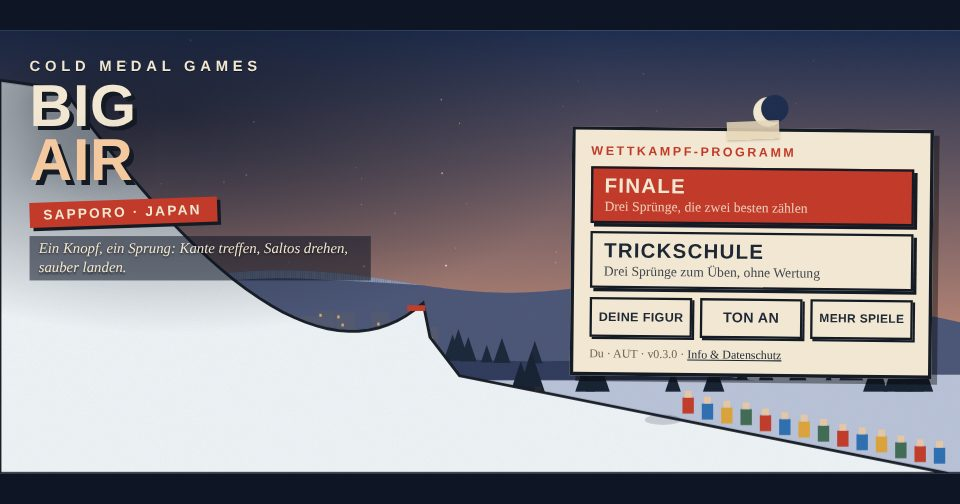
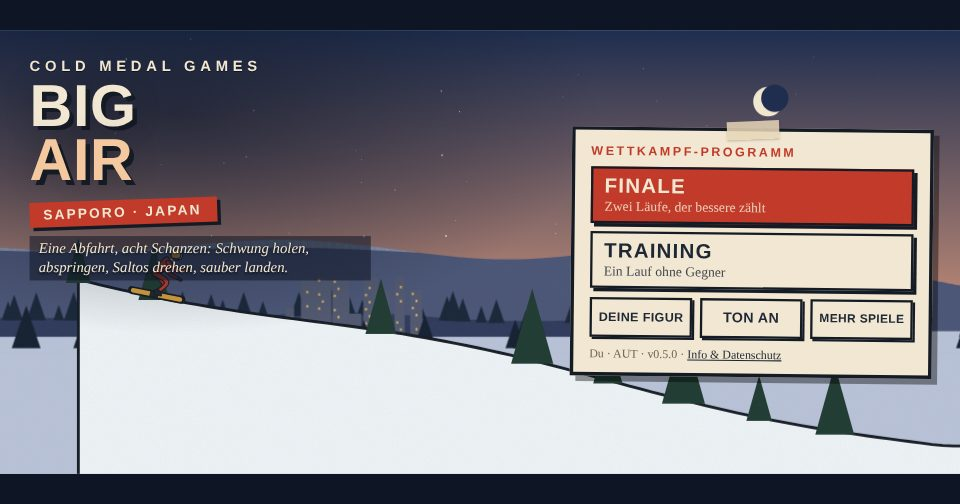
Big Air und Halfpipe 0.5.0
Claude-Session: https://claude.ai/code/session_014DHnXigyAZUFRqF2g2CL9Y

diff --git a/big-air/index.html b/big-air/index.html
@@ -2076,119 +2076,154 @@ tr.cut td { border-bottom: 2px dashed var(--red); }
   root.CMRahmen = { v: 1, W, H, spiel, rng, clamp };
 })(typeof window !== "undefined" ? window : globalThis);
 
-// Cold Medal · Big Air – Physik ohne Browser (Node und Seite). Seit 0.3: ein Knopf wie im Seitenscroller: tippen = Absprung, halten = Salto.
+// Cold Medal · Big Air – Physik ohne Browser (Node und Seite). Seit 0.5: eine durchgehende Abfahrt in Seitenansicht mit acht Schanzen.
+// Ein Knopf: am Boden halten = Hocke (schneller, lädt den Sprung), loslassen = Absprung; in der Luft halten = Salto; kurz vor dem Boden tippen = Landung.
 (function (root) {
   "use strict";
   const clamp = (v, a, b) => Math.max(a, Math.min(b, v));
   function rng(seed) { let a = seed >>> 0; return () => { a = (a + 0x6d2b79f5) | 0; let t = Math.imul(a ^ (a >>> 15), 1 | a); t = (t + Math.imul(t ^ (t >>> 7), 61 | t)) ^ t; return ((t ^ (t >>> 14)) >>> 0) / 4294967296; }; }
-  const ANLAUF = 2.4, LIPPE = 0.94, FENSTER = 0.07, DREH = 430, TOL = 50, LANDEN = 0.34, PERFEKT = 0.13;
+  const LANG = 720, G = 9.81, GLUFT = 10.5, DREH = 400, TOL = 55, LANDEN = 0.36, PERFEKT = 0.14, LADEN = 0.5;
 
-  function neu(o) { return { phase: "anfahrt", u: 0, q: null, t: 0, T: 0, h: 0, rot: 0, dreht: false, flips: 0, sturz: false, sauber: 0, tap: null, landung: null, wind: (o && o.wind) || 0 }; }
-  function absprung(s) { if (s.phase !== "anfahrt" || s.q != null) return null; s.q = s.u < LIPPE - FENSTER ? 0.05 : clamp(1 - Math.abs(s.u - LIPPE) / FENSTER, 0.05, 1); return s.q; }
-  // haelt: Knopf gedrückt. Liefert "ab" beim Absprung, "landung" oder "sturz" am Ende.
-  // Landen wie in den Trick-Seitenscrollern: kurz vor dem Aufsetzen noch einmal tippen. Je näher am Boden, desto besser.
-  function landen(s) { if (s.phase !== "flug" || s.tap != null || s.t < s.T - LANDEN) return false; s.tap = s.T - s.t; return true; }
-  function schritt(s, dt, haelt, land) {
-    if (s.phase === "anfahrt") { s.u += dt / ANLAUF; if (s.u >= 1) { if (s.q == null) s.q = 0.15; s.T = 1.35 + 1.25 * s.q + s.wind * 0.03; s.h = 2 + 5 * s.q; s.phase = "flug"; return "ab"; } return null; }
-    if (s.phase !== "flug") return null;
-    if (land) landen(s); haelt = haelt && s.tap == null; s.t += dt; s.dreht = !!haelt; if (haelt) s.rot += DREH * dt;
-    if (s.t < s.T) return null;
-    const voll = Math.round(s.rot / 360) * 360, fehler = Math.abs(s.rot - voll);
-    s.sturz = fehler > TOL; s.flips = s.sturz ? Math.floor(s.rot / 360) : voll / 360; s.sauber = s.sturz ? 0 : 1 - (fehler / TOL) * 0.7; s.landung = s.sturz ? "sturz" : s.tap == null ? "wackler" : s.tap <= PERFEKT ? "perfekt" : "gut"; s.phase = "aus";
-    return s.sturz ? "sturz" : "landung";
+  // Strecke: Höhe je Meter. Grundgefälle, kleine Wellen, acht Schanzen (die letzte ist die große).
+  function strecke(seed) {
+    const r = rng(seed), H = [0], schanzen = []; let x0 = 80;
+    for (let i = 0; i < 8; i++) { const gross = i === 7, mittel = i % 3 === 2; schanzen.push({ x: x0, rampe: gross ? 14 : mittel ? 11 : 8, hoch: gross ? 3.6 : mittel ? 2.4 : 1.4, gross }); x0 += 66 + r() * 18 + (mittel ? 10 : 0); }
+    const p1 = r() * 6;
+    for (let x = 1; x <= LANG + 60; x++) {
+      let d = -0.2 + 0.07 * Math.sin(x / 9 + p1);
+      for (const k of schanzen) { const u = x - k.x; if (u >= 0 && u < k.rampe) d = -0.1 + (0.34 + k.hoch * 0.07) * (u / k.rampe); else if (u === k.rampe) d = -k.hoch * 0.9; else if (u > k.rampe && u < k.rampe + 10 + k.hoch * 6) d = -0.5; else if (u >= k.rampe + 10 + k.hoch * 6 && u < k.rampe + 20 + k.hoch * 6) d = -0.5 + 0.36 * ((u - k.rampe - 10 - k.hoch * 6) / 10); }
+      if (x > LANG) d = -0.02;
+      H.push(H[x - 1] + d);
+    }
+    return { H, schanzen, lang: LANG };
   }
-  const LQ = { perfekt: 1, gut: 0.88, wackler: 0.62, sturz: 1 };
-  const wertung = (s) => clamp(s.sturz ? 12 + s.flips * 6 : (20 + 14 * s.q + s.flips * 18 + 12 * s.sauber) * LQ[s.landung || "wackler"], 0, 100);
-  function ki(st, r) { const flips = Math.min(3, Math.max(1, Math.round(0.8 + 2.2 * st + (r() - 0.5)))), sturz = r() < 0.26 - 0.14 * st; return { flips, sturz, basis: clamp(sturz ? 12 + flips * 6 : 20 + 14 * (0.5 + 0.5 * st) + flips * 18 + 12 * (0.55 + 0.4 * r()), 0, 100) }; }
-  // Mitspieler: trifft die Kante und dreht so viele ganze Saltos, wie in die Flugzeit passen
-  function bot(s) { if (s.phase === "anfahrt") return { ab: s.q == null && s.u >= LIPPE, haelt: false }; if (s.phase !== "flug") return { haelt: false }; const ziel = Math.floor(((s.T - 0.2) * DREH) / 360) * 360; return { haelt: s.rot < ziel - 4, land: s.T - s.t < 0.08 }; }
-  const api = { ANLAUF, LIPPE, FENSTER, DREH, TOL, LANDEN, PERFEKT, clamp, rng, neu, absprung, landen, schritt, wertung, ki, bot };
+  const hoehe = (S, x) => { const i = clamp(Math.floor(x), 0, S.H.length - 2), u = clamp(x - i, 0, 1); return S.H[i] + (S.H[i + 1] - S.H[i]) * u; };
+  const winkel = (S, x) => { const i = clamp(Math.floor(x), 0, S.H.length - 2); return Math.atan(S.H[i + 1] - S.H[i]); };
+
+  function neu() { return { x: 2, y: 0, v: 7, vx: 0, vy: 0, luft: false, t: 0, hocke: false, lade: 0, rot: 0, dreht: false, tap: null, tLuft: 0, punkte: 0, kette: 0, besteKette: 0, spruenge: [], stuerze: 0, liegt: 0, fertig: false, zeit: null, a0: 0 }; }
+  // Zeit bis zum Aufsetzen (Vorausrechnung ohne Drehung)
+  function rest(S, s) { if (!s.luft) return 0; let x = s.x, y = s.y, vy = s.vy; for (let t = 0; t < 6; t += 1 / 60) { vy -= GLUFT / 60; x += s.vx / 60; y += vy / 60; if (y <= hoehe(S, x)) return t; } return 6; }
+  function landen(S, s) { if (!s.luft || s.tap != null) return false; const r = rest(S, s); if (r > LANDEN) return false; s.tap = r; return true; }
+  function ab(s, a, sprung) { s.luft = true; s.vx = s.v * Math.cos(a); s.vy = s.v * Math.sin(a) + sprung; s.rot = 0; s.tap = null; s.tLuft = 0; s.a0 = a; s.lade = 0; }
+  // ein Zeitschritt. ein: { haelt, land }. Ereignis: "ab" | { art: "landung", ... } | "ziel" | null
+  function schritt(S, s, dt, ein) {
+    if (s.fertig) return null; s.t += dt;
+    if (s.liegt > 0) { s.liegt -= dt; return null; }
+    if (!s.luft) {
+      const a = winkel(S, s.x), war = s.hocke; s.hocke = !!ein.haelt; if (s.hocke) s.lade = Math.min(LADEN, s.lade + dt);
+      s.v = Math.max(2.5, s.v + (-G * Math.sin(a) * 0.62 - (s.hocke ? 0.0052 : 0.0105) * s.v * s.v - 0.25) * dt);
+      const xn = s.x + s.v * Math.cos(a) * dt, a2 = winkel(S, xn + 0.4);
+      if (war && !s.hocke) { const k = s.lade / LADEN; s.x = xn; s.y = hoehe(S, xn) + 0.05; ab(s, a, 1.6 + 2.8 * k); return "ab"; }      // Absprung beim Loslassen
+      if (a2 < a - 0.3 && s.v > 5) { s.x = xn; s.y = hoehe(S, s.x - s.v * Math.cos(a) * dt) + Math.sin(a) * s.v * dt; ab(s, a, 0); return "ab"; }   // Kante: der Boden fällt weg
+      s.x = xn; s.y = hoehe(S, s.x);
+      if (s.x >= S.lang) { s.fertig = true; s.zeit = s.t; return "ziel"; }
+      return null;
+    }
+    if (ein.land) landen(S, s);
+    s.tLuft += dt; s.dreht = !!ein.haelt && s.tap == null; if (s.dreht) s.rot += DREH * dt;
+    s.vy -= GLUFT * dt; s.x += s.vx * dt; s.y += s.vy * dt;
+    const h = hoehe(S, s.x); if (s.y > h) return null;
+    // Aufsetzen
+    const a = winkel(S, s.x), voll = Math.round(s.rot / 360) * 360, fehler = Math.abs(s.rot - voll), sturz = fehler > TOL, flips = sturz ? 0 : voll / 360;
+    const landung = sturz ? "sturz" : s.tap == null ? "wackler" : s.tap <= PERFEKT ? "perfekt" : "gut", klein = s.tLuft < 0.45 && !flips;
+    s.luft = false; s.y = h; s.hocke = false; s.dreht = false;
+    s.v = Math.max(2.5, s.vx * Math.cos(a) + s.vy * Math.sin(a));
+    let pkt = 0;
+    if (sturz) { s.stuerze++; s.kette = 0; s.v = 2.5; s.liegt = 1.1; }
+    else if (!klein) { if (landung === "perfekt") { s.kette++; s.v += 1.6; } else if (landung === "wackler") { s.kette = 0; s.v *= 0.82; }
+      pkt = Math.round((s.tLuft * 12 + flips * 60) * { perfekt: 1, gut: 0.8, wackler: 0.5 }[landung] * (1 + 0.25 * Math.max(0, s.kette - 1))); s.punkte += pkt; s.besteKette = Math.max(s.besteKette, s.kette); }
+    const ev = { art: "landung", landung, flips, luft: s.tLuft, punkte: pkt, kette: s.kette, klein }; if (!klein || sturz) s.spruenge.push(ev);
+    if (s.x >= S.lang) { s.fertig = true; s.zeit = s.t; }
+    return ev;
+  }
+  // Mitspieler: Hocke, an der Schanzenkante abspringen, so viele Saltos wie hineinpassen, sauber landen
+  function bot(S, s, st) {
+    st = st == null ? 1 : st;
+    if (!s.luft) { const k = S.schanzen.find((q) => s.x < q.x + q.rampe && s.x > q.x - 30); return { haelt: !(k && s.x > k.x + k.rampe - 1.2 - s.v * 0.02) }; }
+    const r = rest(S, s); if (s.botZiel == null || s.tLuft < 0.05) s.botZiel = Math.floor(((s.tLuft + r - 0.3) * DREH * (0.55 + 0.45 * st)) / 360) * 360;
+    return { haelt: s.rot < s.botZiel - 4, land: r < 0.09 };
+  }
+  function lauf(S, st) { const s = neu(); for (let i = 0; i < 60 * 240 && !s.fertig; i++) schritt(S, s, 1 / 60, bot(S, s, st)); return s; }
+  const ki = (st, r) => Math.round(700 + 1700 * st + (r() - 0.5) * 500 - (r() < 0.25 - 0.15 * st ? 450 : 0));
+  const api = { LANG, DREH, TOL, LANDEN, PERFEKT, LADEN, clamp, rng, strecke, hoehe, winkel, neu, rest, landen, schritt, bot, lauf, ki };
   if (typeof module !== "undefined" && module.exports) module.exports = api; else root.BAPhys = api;
 })(typeof window !== "undefined" ? window : globalThis);
 
 // Cold Medal · Big Air – Spiel (Rahmen: oberflaeche/rahmen.js, Physik: physics.js). Konzept: docs/KONZEPT.md.
-// Seit 0.3: ein Knopf wie in den einfachen Seitenscrollern. Tippen an der Kante = Absprung, halten = Salto, loslassen vor der Landung.
+// Seit 0.5: eine durchgehende Abfahrt in Seitenansicht (Vorbilder: Alto, OlliOlli). Ein Knopf für Hocke, Absprung, Salto und Landung.
 (function () {
   "use strict";
-  const VERSION = "0.4.0";
+  const VERSION = "0.5.0";
   const P = window.BAPhys;
   const KIT = { head: "helmet", feet: "skiBoots", torso: "plain", glove: true };
-  const POSE = { hocke: { lean: 40, crouch: 0.8, sL: [60, 90], fL: [50, 86], aF: [30, 40], aB: [14, 30], hd: -20 }, salto: { lean: 50, crouch: 1, sL: [90, 120], fL: [84, 116], aF: [80, 20], aB: [70, 20], hd: -20 }, offen: { lean: 10, crouch: 0.2, sL: [24, 30], fL: [10, 30], aF: [-70, 20], aB: [-110, 20], hd: 0 }, sturz: { lean: 80, crouch: 0.3, sL: [20, 40], fL: [-30, 50], aF: [-120, 30], aB: [100, 30], hd: 20 } };
-  const A = [56, 52], B = [262, 338], L = [372, 240], RUNDEN = 3;
+  const POSE = { steh: { lean: 16, crouch: 0.3, sL: [30, 44], fL: [-4, 36], aF: [40, 30], aB: [-30, 40], hd: -6 }, hocke: { lean: 40, crouch: 0.9, sL: [64, 96], fL: [50, 90], aF: [60, 40], aB: [20, 50], hd: -18 }, salto: { lean: 52, crouch: 1, sL: [90, 120], fL: [84, 116], aF: [84, 20], aB: [70, 20], hd: -20 }, luft: { lean: 8, crouch: 0.2, sL: [26, 30], fL: [8, 30], aF: [-70, 20], aB: [-110, 20], hd: 0 }, sturz: { lean: 84, crouch: 0.2, sL: [20, 40], fL: [-30, 50], aF: [-120, 30], aB: [100, 30], hd: 20 } };
+  const PX = 9.5, MX = 240, MY = 220, LAEUFE = 2;
   let R, kul;
-  const hang = (x) => 304 + (x - 404) * 0.2;
-  const bez = (u) => { const q = 1 - u; return [q * q * A[0] + 2 * q * u * B[0] + u * u * L[0], q * q * A[1] + 2 * q * u * B[1] + u * u * L[1], Math.atan2(2 * q * (B[1] - A[1]) + 2 * u * (L[1] - B[1]), 2 * q * (B[0] - A[0]) + 2 * u * (L[0] - B[0]))]; };
 
-  function schanze(c, t) {
-    kul = kul || R.kulisse("sapporo", 300, "abend"); kul.zeichne(c, 0, t);
-    c.fillStyle = "#EEF4F8"; c.strokeStyle = "#141B25"; c.lineWidth = 2.5; c.beginPath(); c.moveTo(0, R.H); c.lineTo(0, A[1] - 8); c.lineTo(A[0], A[1]);
-    for (let i = 1; i <= 30; i++) { const p = bez(i / 30); c.lineTo(p[0], p[1]); } c.lineTo(L[0] + 6, L[1] + 30); c.lineTo(404, hang(404)); c.lineTo(R.W, hang(R.W)); c.lineTo(R.W, R.H); c.closePath(); c.fill(); c.stroke();
-    c.fillStyle = "#C23B2A"; c.fillRect(L[0] - 14, L[1] + 2, 16, 5);      // rote Kante
-    // Zuschauer und Punktrichterturm am Auslauf
-    for (let i = 0; i < 14; i++) { const x = 600 + i * 17, y = hang(x) - 2, bob = Math.max(0, Math.sin(t * 2.4 + i * 1.9)) * 2; c.fillStyle = ["#C23B2A", "#2C6FB3", "#DDA43B", "#3F6B55"][i % 4]; c.fillRect(x, y - 16 - bob, 10, 14); c.fillStyle = "#E8C9A8"; c.fillRect(x + 2, y - 22 - bob, 6, 6); }
-    c.fillStyle = "#22272E"; c.fillRect(470, hang(470) - 4, 6, 4); c.fillRect(760, 150, 60, 44); c.fillStyle = "#F1E7D2"; c.fillRect(766, 156, 48, 16); R.text(c, "JURY", 790, 164, 10, "#22272E");
-  }
-  function fahrer(c, s, look) {
-    let x, y, w, pose;
-    if (s.phase === "anfahrt") { const p = bez(Math.min(1, s.u)); x = p[0]; y = p[1]; w = p[2]; pose = POSE.hocke; }
-    else { const k = s.phase === "aus" ? 1 : s.t / s.T, zx = 540 + 200 * s.q; x = L[0] + (zx - L[0]) * k; y = L[1] + (hang(zx) - L[1]) * k - Math.sin(k * Math.PI) * s.h * 17;
-      w = s.phase === "aus" ? (s.sturz ? 1.3 : 0.2) : -0.5 + 0.7 * k - (s.rot * Math.PI) / 180; pose = s.phase === "aus" ? (s.sturz ? POSE.sturz : POSE.hocke) : s.dreht ? POSE.salto : POSE.offen; }
-    if (s.phase !== "anfahrt") R.schatten(c, x, hang(Math.max(404, x)) + 2, 16);
-    c.save(); c.translate(x, y - 2); c.rotate(w); c.strokeStyle = "#141B25"; c.lineWidth = 7; c.lineCap = "round"; c.beginPath(); c.moveTo(-24, 0); c.lineTo(24, 0); c.stroke(); c.strokeStyle = "#DDA43B"; c.lineWidth = 4; c.beginPath(); c.moveTo(-23, 0); c.lineTo(23, 0); c.stroke();
-    R.figur(c, { x: 0, y: -2, s: 0.74, pose, look, kit: KIT }); c.restore();
+  function welt(c, t, S, s, cam) {
+    kul = kul || R.kulisse("sapporo", 262, "abend"); kul.zeichne(c, cam.x * 1.5, t);
+    const X = (x) => (x - cam.x) * PX + MX, Y = (y) => MY - (y - cam.y) * PX, x0 = Math.max(0, Math.floor(cam.x - 30)), x1 = Math.min(S.H.length - 1, Math.ceil(cam.x + 70));
+    c.fillStyle = "#EEF4F8"; c.strokeStyle = "#141B25"; c.lineWidth = 2.5; c.beginPath(); c.moveTo(X(x0), R.H + 4); for (let x = x0; x <= x1; x++) c.lineTo(X(x), Y(S.H[x])); c.lineTo(X(x1), R.H + 4); c.closePath(); c.fill(); c.stroke();
+    for (let x = Math.ceil(x0 / 7) * 7; x < x1; x += 7) { const h = Math.sin(x * 12.9898) * 43758.5453, z = h - Math.floor(h); if (z > 0.55 || S.schanzen.some((k) => x > k.x - 4 && x < k.x + k.rampe + 30)) continue; const bx = X(x), by = Y(S.H[x]) + 3, g = 26 + z * 40; c.fillStyle = "#1F3B33"; c.beginPath(); c.moveTo(bx, by - g * 1.5); c.lineTo(bx + g * 0.42, by); c.lineTo(bx - g * 0.42, by); c.closePath(); c.fill(); }
+    for (const k of S.schanzen) { const lx = k.x + k.rampe; if (lx < x0 || k.x > x1) continue; c.fillStyle = "#C23B2A"; c.fillRect(X(lx) - 14, Y(S.H[Math.round(lx)]) + 3, 15, 5); if (k.gross) R.tafel(c, X(k.x) - 40, Y(S.H[Math.round(k.x)]) - 76, 80, 22, [["BIG AIR", 11, "#C23B2A"]]); }
+    if (S.lang < x1) { const zx = X(S.lang), zy = Y(S.H[S.lang]); c.fillStyle = "#141B25"; c.fillRect(zx - 2, zy - 80, 5, 80); c.fillStyle = "#C23B2A"; c.fillRect(zx, zy - 80, 54, 20); R.text(c, "ZIEL", zx + 27, zy - 70, 11, "#F1E7D2"); }
+    // Fahrer mit Brett
+    const sx = X(s.x), sy = Y(s.y), vel = Math.atan2(s.vy, s.vx), w = s.liegt > 0 ? 1.4 : s.luft ? -(s.a0 + (vel - s.a0) * Math.min(1, s.tLuft * 1.4)) - (s.rot * Math.PI) / 180 : -P.winkel(S, s.x);
+    const pose = s.liegt > 0 ? POSE.sturz : s.luft ? (s.dreht ? POSE.salto : POSE.luft) : s.hocke ? POSE.hocke : POSE.steh;
+    if (s.luft) R.schatten(c, sx, Y(P.hoehe(S, s.x)) + 2, 14);
+    c.save(); c.translate(sx, sy - 2); c.rotate(w); c.strokeStyle = "#141B25"; c.lineWidth = 7; c.lineCap = "round"; c.beginPath(); c.moveTo(-22, 0); c.lineTo(22, 0); c.stroke(); c.strokeStyle = "#DDA43B"; c.lineWidth = 4; c.beginPath(); c.moveTo(-21, 0); c.lineTo(21, 0); c.stroke();
+    R.figur(c, { x: 0, y: -2, s: 0.7, pose, look: R.myLook(), kit: KIT }); c.restore();
+    if (!s.luft && s.v > 9 && s.liegt <= 0) { c.fillStyle = "rgba(255,255,255,0.8)"; for (let i = 0; i < 4; i++) c.fillRect(sx - 20 - i * 9 - (t * 60 % 9), sy - 4 - i * 3, 5, 3); }
   }
 
   function wettkampf(training) {
-    const seed = (Date.now() ^ (Math.random() * 1e9)) >>> 0, rnd = P.rng(seed), feld = training ? [] : R.feld(11, seed, 0.6), wind = Math.round((rnd() * 4 - 1.5) * 10) / 10, meine = [];
-    feld.forEach((f) => { f.spr = [0, 1, 2].map(() => { const k = P.ki(f.st, rnd); return { flips: k.flips, sturz: k.sturz, wert: R.richter(k.basis, rnd).wert }; }); });
-    const zwei = (a) => a.map((x) => x.wert).sort((x, y) => y - x).slice(0, 2).reduce((x, y) => x + y, 0);
-    function sprung() {
-      const s = P.neu({ wind }); let wert = null, tEnd = 0, haelt = false, botAn = null;
-      const kR = R.knopf({ seite: "links", text: "Absprung", symbol: "hocke", onDown: () => { if (s.phase === "flug" && P.landen(s)) { R.ton.tick(); return; } haelt = true; if (s.phase === "anfahrt") { const q = P.absprung(s); if (q != null) { R.ton.wusch(); R.sag(q > 0.75 ? "Voll getroffen!" : q > 0.3 ? "Guter Absprung" : "Zu früh", 1, q <= 0.3); } } }, onUp: () => { haelt = false; } });
+    const seed = (Date.now() ^ (Math.random() * 1e9)) >>> 0, rnd = P.rng(seed), feld = training ? [] : R.feld(11, seed, 0.6), meine = [];
+    feld.forEach((f) => { f.l = [P.ki(f.st, rnd), P.ki(f.st, rnd)]; });
+    function lauf() {
+      const S = P.strecke(seed + meine.length * 17), s = P.neu(), cam = { x: 0, y: 0 }; let haelt = false, tap = false, botE = null, tEnd = 0;
+      const kL = R.knopf({ seite: "rechts", text: "Hocke", symbol: "hocke", onDown: () => { if (s.luft && P.landen(S, s)) { R.ton.tick(); return; } haelt = true; }, onUp: () => { haelt = false; } });
       R.szene({
-        taste(k, an) { if (k === "rechts" || k === "links") { if (an && s.phase === "flug" && P.landen(s)) return; haelt = an; if (an && s.phase === "anfahrt") P.absprung(s); } },
-        bot() { const b = P.bot(s); if (b.ab) P.absprung(s); if (b.land) P.landen(s); botAn = b.haelt; },
+        taste(k, an) { if (an && s.luft && P.landen(S, s)) return; haelt = an; },
+        bot() { botE = P.bot(S, s, 1); },
         update(dt) {
-          const ev = P.schritt(s, dt, botAn != null ? botAn : haelt && s.phase === "flug"); botAn = null;
-          if (s.phase === "anfahrt") { R.tipp("anfahrt", "An der roten Kante tippen: Absprung. In der Luft halten = Salto.", 5); kR.set({ zu: s.q == null ? P.clamp((s.u - 0.35) / (P.LIPPE - 0.35), 0, 1) : null, ok: Math.abs(s.u - P.LIPPE) < P.FENSTER * 0.5 }); }
-          if (ev === "ab") { kR.set({ text: "Salto", symbol: "wurf", zu: null }); R.tipp("flug", "Halten = Salto. Loslassen, dann kurz vor dem Aufsetzen noch einmal tippen: perfekte Landung.", 6); }
-          if (s.phase === "flug") { const rest = s.T - s.t, fen = rest < P.LANDEN; kR.set({ aktiv: s.dreht, text: fen ? "Landen" : "Salto", zu: fen && s.tap == null ? 1 - rest / P.LANDEN : null, ok: rest < P.PERFEKT }); }
-          if ((ev === "landung" || ev === "sturz") && !wert) { wert = R.richter(P.wertung(s), rnd); tEnd = 0.01; R.tippWeg(); kR.set({ hidden: true });
-            if (s.sturz) { R.ton.schlecht(); R.ton.raunen(); R.sag("Sturz", 1.6, true); } else { R.ton.schnee(); if (wert.wert > 75) R.ton.jubel(); const lt = { perfekt: "Perfekt gelandet", gut: "Gut gelandet", wackler: "Wackler" }[s.landung]; if (s.landung === "perfekt") R.ton.gut(); R.sag(`${s.flips ? s.flips + " Salto" + (s.flips > 1 ? "s" : "") : "Gerader Sprung"} · ${lt}`, 1.8, s.landung === "wackler"); } }
-          if (tEnd) { tEnd += dt; if (tEnd > 2.6) { meine.push({ wert: wert.wert, flips: s.flips, sturz: s.sturz }); tabelle(); } }
+          const ev = P.schritt(S, s, dt, botE || { haelt, land: tap }); botE = null; tap = false;
+          if (ev === "ab") R.ton.wusch();
+          else if (ev && ev.art === "landung") { if (ev.landung === "sturz") { R.ton.schlecht(); R.ton.raunen(); R.sag("Sturz", 1.2, true); } else if (!ev.klein) { R.ton.schnee(); if (ev.landung === "perfekt") R.ton.gut(); R.sag(`${ev.flips ? ev.flips + " Salto" + (ev.flips > 1 ? "s" : "") : "Sprung"} · ${{ perfekt: ev.kette > 1 ? "Perfekt ×" + ev.kette : "Perfekt", gut: "Gut", wackler: "Wackler" }[ev.landung]} · +${ev.punkte}`, 1.5, ev.landung === "wackler"); } }
+          if (!s.luft) { R.tipp("boden", "Halten = Hocke und Schwung. Loslassen = Absprung, am besten an der roten Kante.", 6); kL.set({ text: "Hocke", aktiv: s.hocke, fill: s.lade / P.LADEN, ok: s.lade >= P.LADEN, zu: null }); }
+          else { R.tipp("luft", "In der Luft halten = Salto. Kurz vor dem Boden tippen = Landung.", 6); const r = P.rest(S, s), fen = r < P.LANDEN; kL.set({ text: fen ? "Landen" : "Salto", aktiv: s.dreht, fill: 0, zu: fen && s.tap == null ? 1 - r / P.LANDEN : null, ok: r < P.PERFEKT }); }
+          cam.x += (s.x + 12 - cam.x) * Math.min(1, dt * 6); cam.y += (P.hoehe(S, cam.x) + 3 - cam.y) * Math.min(1, dt * 4);
+          if (s.fertig && !tEnd) { tEnd = 0.01; R.tippWeg(); s.punkte > 1500 ? R.ton.jubel() : R.ton.glocke(); }
+          if (tEnd) { tEnd += dt; if (tEnd > 1.8) { meine.push({ punkte: s.punkte, kette: s.besteKette, stuerze: s.stuerze, spruenge: s.spruenge }); tabelle(); } }
           const voll = Math.abs(s.rot - Math.round(s.rot / 360) * 360) < P.TOL * 0.7;
-          R.chips([[training ? `Trickschule ${meine.length + 1}/${RUNDEN}` : `Sprung ${meine.length + 1}/${RUNDEN}`, "dark"], [`Wind ${wind > 0 ? "+" : ""}${R.zahl(wind)}`, wind >= 0 ? "good" : "warn"], s.phase === "anfahrt" ? ["Anfahrt"] : [`${Math.round(s.rot)}°`, voll ? "good" : "warn"]]);
+          R.chips([[training ? "Training" : `Lauf ${meine.length + 1} von ${LAEUFE}`, "dark"], [`${s.punkte} Punkte`, "gold"], s.kette > 1 ? [`Kette ×${s.kette}`, "good"] : [`${Math.round(s.v * 3.6)} km/h`], s.luft ? [`${Math.round(s.rot)}°`, voll ? "good" : "warn"] : [`${Math.max(0, Math.round(S.lang - s.x))} m`]]);
         },
-        draw(c, t) {
-          schanze(c, t); fahrer(c, s, R.myLook());
-          if (s.phase === "flug") { const k = s.t / s.T; c.fillStyle = "rgba(20,27,37,0.5)"; c.fillRect(R.W / 2 - 70, 64, 140, 8); c.fillStyle = "#DDA43B"; c.fillRect(R.W / 2 - 70, 64, 140 * k, 8); R.text(c, "LANDUNG", R.W / 2, 52, 10, "#F1E7D2"); }
-          if (wert) R.tafel(c, R.W / 2 - 150, 84, 300, 78, [["WERTUNG", 11, "#8A8F9C"], [R.zahl(wert.wert), 34, "#141B25"], [wert.noten.map((n) => Math.round(n)).join("  "), 11, "#2C6FB3"]]);
-        },
+        draw(c, t) { welt(c, t, S, s, cam); },
       });
     }
     function tabelle() {
-      const n = meine.length, fertig = n >= RUNDEN, text = (x) => (x.sturz ? "Sturz" : x.flips ? x.flips + " Salto" + (x.flips > 1 ? "s" : "") : "gerade");
-      if (training) return R.stand({ kicker: "Sapporo · Trickschule", titel: fertig ? "Drei Sprünge geübt" : `Sprung ${n}: ${R.zahl(meine[n - 1].wert)} Punkte`, kopf: [["", "p"], ["", ""], ["", ""], ["Punkte", "n"]], zeilen: meine.map((m, i) => ({ platz: i + 1, name: text(m), nat: "", wert: R.zahl(m.wert), ich: i === n - 1 })),
-        note: "Mehr Höhe gibt mehr Zeit: Wer die Kante trifft, schafft zwei Saltos, mit Glück drei.", knoepfe: fertig ? [{ text: "Menü", fn: R.menu }, { text: "Noch einmal", rot: true, fn: () => wettkampf(true) }] : [{ text: "Weiter", rot: true, fn: sprung }] });
-      const z = feld.map((f) => ({ name: f.name, nat: f.nat, spr: f.spr.slice(0, n), sum: zwei(f.spr.slice(0, n)) })).concat([{ name: R.myName(), nat: R.myNat(), spr: meine, sum: zwei(meine), ich: true }]).sort((a, b) => b.sum - a.sum), platz = z.findIndex((x) => x.ich) + 1;
-      if (fertig) { R.medaille(platz); R.rekord("finale", Math.round(zwei(meine) * 10) / 10); if (platz <= 3) R.ton.jubel(); }
-      R.stand({ kicker: `Sapporo · Finale · nach Sprung ${n} von ${RUNDEN}`, titel: fertig ? (platz <= 3 ? ["Gold!", "Silber!", "Bronze!"][platz - 1] : `Platz ${platz}`) : `Zwischenstand: Platz ${platz}`, kopf: [["", "p"], ["", ""], ["", ""], ["1", "n"], ["2", "n"], ["3", "n"], ["Summe", "n"]],
-        zeilen: z.map((x, i) => ({ platz: i + 1, name: x.name, nat: x.nat, spalten: [0, 1, 2].map((k) => (x.spr[k] ? R.zahl(x.spr[k].wert) : "")), wert: R.zahl(x.sum), ich: x.ich, strich: i === 2 })),
-        note: "Drei Sprünge, die zwei besten zählen. Sechs Punktrichter, höchste und niedrigste Note fallen weg.", knoepfe: fertig ? [{ text: "Menü", fn: R.menu }, { text: "Neues Finale", rot: true, fn: () => wettkampf(false) }] : [{ text: "Weiter", rot: true, fn: sprung }] });
+      const n = meine.length, fertig = n >= (training ? 1 : LAEUFE), best = (a) => Math.max(...a), m = meine[n - 1];
+      const note = `Dein Lauf: ${m.spruenge.filter((e) => e.landung !== "sturz").length} Sprünge, längste Kette ${m.kette}, ${m.stuerze} ${m.stuerze === 1 ? "Sturz" : "Stürze"}.`;
+      if (training) { R.rekord("training", m.punkte); return R.stand({ kicker: "Sapporo · Training", titel: `${m.punkte} Punkte`, kopf: [["", "p"], ["", ""], ["", ""], ["Landung", "n"], ["Punkte", "n"]], zeilen: m.spruenge.map((e, i) => ({ platz: i + 1, name: e.landung === "sturz" ? "Sturz" : e.flips ? e.flips + " Salto" + (e.flips > 1 ? "s" : "") : "Sprung", nat: "", spalten: [{ perfekt: "perfekt", gut: "gut", wackler: "Wackler", sturz: "" }[e.landung]], wert: String(e.punkte) })), note, knoepfe: [{ text: "Menü", fn: R.menu }, { text: "Noch ein Lauf", rot: true, fn: () => wettkampf(true) }] }); }
+      const z = feld.map((f) => ({ name: f.name, nat: f.nat, l: f.l.slice(0, n), s: best(f.l.slice(0, n)) })).concat([{ name: R.myName(), nat: R.myNat(), l: meine.map((q) => q.punkte), s: best(meine.map((q) => q.punkte)), ich: true }]).sort((a, b) => b.s - a.s), platz = z.findIndex((q) => q.ich) + 1;
+      if (fertig) { R.medaille(platz); R.rekord("finale", best(meine.map((q) => q.punkte))); if (platz <= 3) R.ton.jubel(); }
+      R.stand({ kicker: `Sapporo · Finale · nach Lauf ${n} von ${LAEUFE}`, titel: fertig ? (platz <= 3 ? ["Gold!", "Silber!", "Bronze!"][platz - 1] : `Platz ${platz}`) : `Zwischenstand: Platz ${platz}`, kopf: [["", "p"], ["", ""], ["", ""], ["1", "n"], ["2", "n"], ["Best", "n"]],
+        zeilen: z.map((q, i) => ({ platz: i + 1, name: q.name, nat: q.nat, spalten: [0, 1].map((k) => (q.l[k] != null ? String(q.l[k]) : "")), wert: String(q.s), ich: q.ich, strich: i === 2 })), note: note + " Zwei Läufe, der bessere zählt.",
+        knoepfe: fertig ? [{ text: "Menü", fn: R.menu }, { text: "Neues Finale", rot: true, fn: () => wettkampf(false) }] : [{ text: "Weiter", rot: true, fn: lauf }] });
     }
-    sprung();
+    lauf();
   }
 
+  const dS = P.strecke(5); let dF = P.neu(); const dCam = { x: 0, y: 0 };
   R = window.CMRahmen.spiel({
     id: "big-air", name: "Big Air", titel: ["Big", "Air"], band: "Sapporo · Japan", version: VERSION, kit: KIT,
-    satz: "Ein Knopf, ein Sprung: Kante treffen, Saltos drehen, sauber landen.",
-    modi: [{ id: "finale", name: "Finale", sub: (R) => (R.S.best.finale ? "Bestwertung " + R.zahl(R.S.best.finale) : "Drei Sprünge, die zwei besten zählen"), start: () => wettkampf(false) },
-      { id: "train", name: "Trickschule", sub: () => "Drei Sprünge zum Üben, ohne Wertung", ohneName: true, start: () => wettkampf(true) }],
-    info: [["So geht’s", "Die Anfahrt läuft von selbst. An der roten Kante tippen: Je genauer, desto höher und länger fliegst du. In der Luft halten heißt Salto rückwärts, loslassen stoppt die Drehung."],
-      ["Landung", "Die Landung entscheidet. Erstens muss das Brett wieder nach unten zeigen: ganze Saltos, die Gradzahl oben wird grün. Zweitens tippst du kurz vor dem Aufsetzen noch einmal: je näher am Boden, desto besser. Perfekt gibt die vollen Punkte, zu früh etwas weniger, ohne Tippen wackelst du und verlierst ein gutes Drittel."],
-      ["Wertung", "Sechs Punktrichter geben 0 bis 100 Punkte, die höchste und die niedrigste Note fallen weg. Es zählen Höhe, Zahl der Saltos und die saubere Landung. Im Finale zählen die zwei besten von drei Sprüngen."],
-      ["Noch nicht drin", "Schrauben und Griffe zur Wahl, Qualifikation, Duell per Link."]],
-    plakat(c, t) { schanze(c, t); if (R) fahrer(c, { phase: "flug", t: 0.5 + 0.15 * Math.sin(t), T: 1, q: 0.9, h: 6.5, rot: (t * 140) % 360, dreht: true }, R.myLook()); },
+    satz: "Eine Abfahrt, acht Schanzen: Schwung holen, abspringen, Saltos drehen, sauber landen.",
+    modi: [{ id: "finale", name: "Finale", sub: (R) => (R.S.best.finale ? "Bestwert " + R.S.best.finale + " Punkte" : "Zwei Läufe, der bessere zählt"), start: () => wettkampf(false) },
+      { id: "train", name: "Training", sub: () => "Ein Lauf ohne Gegner", ohneName: true, start: () => wettkampf(true) }],
+    info: [["Fahren", "Du fährst eine Abfahrt mit acht Schanzen hinunter, die letzte ist die große. Ein Knopf: Am Boden halten heißt Hocke, das macht schneller und lädt den Sprung. Loslassen heißt Absprung, am besten genau an der roten Kante. Springen kannst du überall."],
+      ["Tricks", "In der Luft halten heißt Salto rückwärts, loslassen stoppt die Drehung. Gelandet wird in ganzen Saltos: Die Gradzahl oben wird grün, wenn das Brett wieder passt. Falsch herum aufgesetzt ist ein Sturz und kostet Zeit."],
+      ["Landung und Kette", "Kurz vor dem Aufsetzen noch einmal tippen. Je näher am Boden, desto besser: Perfekt gibt Schwung und verlängert die Kette, und jede Stufe der Kette macht den nächsten Sprung mehr wert. Zu früh ist nur gut. Ohne Tippen wackelst du: halbe Punkte, Schwung weg, Kette gerissen."],
+      ["Noch nicht drin", "Rails, Schrauben und Griffe, Strecken zur Wahl, Duell per Link."]],
+    plakat(c, t) { if (!R) return; if (dF.fertig) dF = P.neu(); P.schritt(dS, dF, 1 / 60, P.bot(dS, dF, 0.8)); dCam.x += (dF.x + 12 - dCam.x) * 0.1; dCam.y += (P.hoehe(dS, dCam.x) + 3 - dCam.y) * 0.07; welt(c, t, dS, dF, dCam); },
   });
 })();
 </script>

diff --git a/halfpipe/index.html b/halfpipe/index.html
@@ -2081,17 +2081,19 @@ tr.cut td { border-bottom: 2px dashed var(--red); }
   "use strict";
   const clamp = (v, a, b) => Math.max(a, Math.min(b, v));
   function rng(seed) { let a = seed >>> 0; return () => { a = (a + 0x6d2b79f5) | 0; let t = Math.imul(a ^ (a >>> 15), 1 | a); t = (t + Math.imul(t ^ (t >>> 7), 61 | t)) ^ t; return ((t ^ (t >>> 14)) >>> 0) / 4294967296; }; }
-  const HITS = 5, QUER = 1.5, LIPPE = 0.9, FENSTER = 0.14, DREH = 400, TOL = 40, GRIFF_LOS = 0.16, H_MAX = 5.4, LANDEN = 0.34, PERFEKT = 0.13;
+  const HITS = 8, QUER = 1.5, LIPPE = 0.9, FENSTER = 0.14, DREH = 400, TOL = 40, GRIFF_LOS = 0.16, H_MAX = 5.4, LANDEN = 0.34, PERFEKT = 0.13;
 
-  function lauf() { return { phase: "fahrt", hit: 0, u: 0.35, seite: 1, v: 0.32, hielt: false, pumpVor: false, los: null, luft: null, hits: [], stuerze: 0, letzter: null, kette: 0 }; }
+  function lauf() { return { phase: "fahrt", hit: 0, u: 0.35, seite: 1, v: 0.3, hielt: false, pumpVor: false, los: null, luft: null, hits: [], stuerze: 0, letzter: null, kette: 0, pd: 0, pu: 0, pump: 0 }; }
   const hoehe = (v) => 1.2 + 4.2 * v, flugzeit = (h) => 2 * Math.sqrt((2 * h) / 9.81) * 1.15;
   // ein = { pump, dreh, grab } (gehalten). Liefert Ereignis: "ab" (Absprung), "landung", "sturz", "ende" oder null.
   function schritt(s, dt, ein) {
     if (s.phase === "ende") return null;
     if (s.phase === "fahrt") {
+      // Pumpen wie auf einer Welle: die Wand hinunter drücken, die Wand hinauf loslassen
+      if (ein.pump) { if (s.u < 0.5) s.pd += dt; else if (s.u < 0.95) s.pu += dt; }
       s.u += dt / QUER;
       if (s.u >= 1) {
-        const q = s.v; const h = hoehe(s.v);
+        const q = clamp(s.pd / (QUER * 0.45), 0, 1) - clamp(s.pu / (QUER * 0.4), 0, 1); s.v = clamp(s.v + 0.09 * q, 0.12, 1); s.pump = q; const h = hoehe(s.v);
         s.luft = { t: 0, T: flugzeit(h), h, rot: 0, grab: 0, grabZuletzt: -9, q, tap: null }; s.phase = "luft"; return "ab";
       }
       return null;
@@ -2106,9 +2108,9 @@ tr.cut td { border-bottom: 2px dashed var(--red); }
     s.kette = landung === "perfekt" ? s.kette + 1 : 0;
     const hit = { h: L.h, rot: stufe, grab: Math.min(1, L.grab / 0.8), sauber: sturz ? 0 : (1 - (fehler / TOL) * 0.6) * LQ[landung], sturz, q: L.q, landung, kette: s.kette };
     s.hits.push(hit); s.letzter = hit; s.hit++; s.luft = null;
-    if (sturz) { s.stuerze++; s.v = 0.2; } else s.v = clamp(s.v + (landung === "perfekt" && hit.sauber > 0.75 ? 0.15 : landung === "wackler" || hit.sauber < 0.55 ? -0.15 : 0.03), 0.12, 1);   // saubere Landung hält und baut Schwung
+    if (sturz) { s.stuerze++; s.v = 0.2; } else s.v = clamp(s.v + (landung === "perfekt" && hit.sauber > 0.75 ? 0.07 : landung === "wackler" || hit.sauber < 0.55 ? -0.15 : 0), 0.12, 1);   // saubere Landung hält und baut Schwung
     if (s.hit >= HITS || s.stuerze >= 2) { s.phase = "ende"; return sturz ? "sturz" : "landung"; }
-    s.phase = "fahrt"; s.u = 0; s.seite = -s.seite;
+    s.phase = "fahrt"; s.u = 0; s.seite = -s.seite; s.pd = 0; s.pu = 0;
     return sturz ? "sturz" : "landung";
   }
   // Wertung 0–100: Höhe, Schwierigkeit, Griffe, Abwechslung, Ausführung. Stürze kosten doppelt.
@@ -2125,7 +2127,7 @@ tr.cut td { border-bottom: 2px dashed var(--red); }
   function ki(st, r) { const sturz = r() < 0.24 - 0.12 * st; return { basis: clamp((44 + 44 * st + (r() - 0.5) * 12) * (sturz ? 0.45 : 1), 8, 97), sturz }; }
   // Bot für Tests und Vorführung: pumpt sauber, dreht je nach Flugzeit 360 oder 540, greift in der ersten Hälfte.
   function bot(s) {
-    if (s.phase === "fahrt") return { pump: false, dreh: false, grab: false };
+    if (s.phase === "fahrt") return { pump: s.u > 0.04 && s.u < 0.5, dreh: false, grab: false };
     if (s.phase !== "luft") return { pump: false, dreh: false, grab: false };
     const L = s.luft, ziel = Math.max(0, Math.floor(((L.T - 0.25) * DREH) / 180) * 180);
     return { pump: false, dreh: L.rot < ziel - 3, grab: L.t > 0.1 && L.t < L.T * 0.55, land: L.T - L.t < 0.08 };
@@ -2137,7 +2139,7 @@ tr.cut td { border-bottom: 2px dashed var(--red); }
 // Cold Medal · Halfpipe – Spiel (Rahmen: oberflaeche/rahmen.js, Physik: physics.js). Konzept: docs/KONZEPT.md.
 (function () {
   "use strict";
-  const VERSION = "0.4.0";
+  const VERSION = "0.5.0";
   const P = window.HPPhys, F = window.CMFigur;
   const KIT = { head: "helmet", feet: "skiBoots", torso: "plain", glove: true };
   const POSE = { fahrt: { lean: 18, crouch: 0.35, sL: [34, 50], fL: [-6, 40], aF: [40, 30], aB: [-30, 40], hd: -6 }, tief: { lean: 30, crouch: 0.8, sL: [60, 90], fL: [20, 80], aF: [60, 40], aB: [-10, 60], hd: -10 }, luft: { lean: 8, crouch: 0.3, sL: [40, 60], fL: [0, 50], aF: [-70, 20], aB: [-110, 30], hd: 0 }, griff: { lean: 40, crouch: 0.9, sL: [80, 100], fL: [50, 100], aF: [110, 10], aB: [-60, 50], hd: -14 } };
@@ -2183,15 +2185,15 @@ tr.cut td { border-bottom: 2px dashed var(--red); }
     function lauf() {
       const s = P.lauf(), ein = { pump: false, dreh: false, grab: false }; let tEnd = 0, wert = null;
       const kL = { set() {} };
-      const kR = R.knopf({ seite: "rechts", text: "Drehen", symbol: "wurf", onDown: () => { if (P.landen(s)) { R.ton.tick(); return; } ein.dreh = true; }, onUp: () => { ein.dreh = false; } });
+      const kR = R.knopf({ seite: "rechts", text: "Drehen", symbol: "wurf", onDown: () => { if (P.landen(s)) { R.ton.tick(); return; } if (s.phase === "luft") ein.dreh = true; else ein.pump = true; }, onUp: () => { ein.dreh = false; ein.pump = false; } });
       R.szene({
-        taste(k, an) { if (k === "links") ein.grab = an; if (k === "rechts") { if (an && P.landen(s)) return; ein.dreh = an; } },
+        taste(k, an) { if (k === "links") ein.grab = an; if (k === "rechts") { if (an && P.landen(s)) return; if (s.phase === "luft") ein.dreh = an; else ein.pump = an; if (!an) ein.dreh = ein.pump = false; } },
         bot() { Object.assign(ein, P.bot(s)); },
         update(dt) {
           if (s.phase === "luft") ein.grab = ein.dreh && s.luft.t < s.luft.T - 0.3; const e = P.schritt(s, dt, ein);
-          if (e === "ab") { R.ton.wusch(); R.tipp("luft", "Halten = drehen. Loslassen, dann kurz vor dem Aufsetzen noch einmal tippen: Perfekte Landungen geben Schwung.", 6); }
+          if (e === "ab") { ein.pump = false; R.ton.wusch(); if (s.pump > 0.6) R.ton.gut(); R.tipp("luft", "Halten = drehen. Loslassen, dann kurz vor dem Aufsetzen noch einmal tippen: Perfekte Landungen geben Schwung.", 6); }
           if (e === "landung" || e === "sturz") { ein.dreh = false; const h = s.letzter; h.sturz ? (R.ton.schlecht(), R.ton.raunen(), R.sag("Sturz: " + h.sturz, 1.6, true)) : (R.ton.schnee(), h.landung === "perfekt" && R.ton.gut(), R.sag(`${h.rot ? h.rot + "°" : "Gerader Sprung"} · ${{ perfekt: h.kette > 1 ? "Perfekt ×" + h.kette : "Perfekt", gut: "Gut gelandet", wackler: "Wackler" }[h.landung]}`, 1.4, h.landung === "wackler")); }
-          if (s.phase === "fahrt") { if (ein.dreh) ein.dreh = false; ein.land = false; kR.set({ aktiv: false, hidden: false, text: "Drehen", zu: null }); }
+          if (s.phase === "fahrt") { if (ein.dreh) ein.dreh = false; ein.land = false; R.tipp("pump", "Die Wand hinunter halten, die Wand hinauf loslassen: Pumpen gibt Schwung.", 6); kR.set({ aktiv: ein.pump, hidden: false, text: "Pumpen", zu: null, puls: s.u < 0.45 && !ein.pump, ok: s.u < 0.5 }); }
           else if (s.phase === "luft") { const rest = s.luft.T - s.luft.t, fen = rest < P.LANDEN; kR.set({ aktiv: ein.dreh && !fen, text: fen ? "Landen" : "Drehen", zu: fen && s.luft.tap == null ? 1 - rest / P.LANDEN : null, ok: rest < P.PERFEKT }); }
           if (s.phase === "ende" && wert == null) { wert = R.richter(P.wertung(s.hits), rnd); tEnd = 0.01; R.tippWeg(); wert.wert > 80 ? R.ton.jubel() : R.ton.glocke(); }
           if (tEnd) { tEnd += dt; if (tEnd > 2.6) { meine.push({ wert: wert.wert, hits: s.hits }); tabelle(); } }
@@ -2218,11 +2220,11 @@ tr.cut td { border-bottom: 2px dashed var(--red); }
 
   R = window.CMRahmen.spiel({
     id: "halfpipe", name: "Halfpipe", titel: ["Half", "pipe"], band: "Copper Mountain · USA", version: VERSION, kit: KIT,
-    satz: "Fünf Sprünge über der Lippe: Höhe halten, drehen, greifen, sauber landen.",
+    satz: "Acht Sprünge über der Lippe: pumpen, drehen, sauber landen.",
     modi: [{ id: "finale", name: "Finale", sub: (R) => (R.S.best && R.S.best.punkte ? `Bestwert ${R.zahl(R.S.best.punkte)}` : "Acht Starter, zwei Läufe, der bessere zählt"), start: () => finale(false) },
       { id: "train", name: "Training", sub: () => "Ein Lauf ohne Gegner", start: () => finale(true), ohneName: true }],
     info: [["Landung", "Die Landung entscheidet: Kurz vor dem Aufsetzen noch einmal tippen, je näher am Boden, desto besser. Eine perfekte Landung gibt Schwung für den nächsten Sprung und verlängert deine Kette, ein Wackler nimmt Schwung und reißt die Kette ab. So wächst die Höhe von Sprung zu Sprung, oder sie verhungert."],
-      ["Tricks", "Ein Knopf: In der Luft halten dreht, loslassen stoppt. Gelandet wird in halben Drehungen (180, 360, 540 …), die Gradzahl oben wird grün, wenn es passt. Mehr Höhe heißt mehr Zeit für mehr Drehung. Den Griff setzt die Figur selbst."],
+      ["Fahren", "Du fährst die Röhre achtmal von Wand zu Wand. Ein Knopf: Die Wand hinunter halten und unten loslassen, bevor es wieder hinaufgeht. Dieses Pumpen gibt Schwung, wie auf einer Welle. Wer bergauf noch drückt, bremst."], ["Tricks", "In der Luft derselbe Knopf: halten dreht, loslassen stoppt. Gelandet wird in halben Drehungen (180, 360, 540 …), die Gradzahl oben wird grün, wenn es passt. Mehr Höhe heißt mehr Zeit für mehr Drehung. Den Griff setzt die Figur selbst."],
       ["Wertung", "Sechs Punktrichter, 0 bis 100, die höchste und die niedrigste Note fallen weg. Es zählen Höhe, Schwierigkeit, Griffe, Abwechslung und saubere Landungen. Nach zwei Stürzen ist der Lauf vorbei."],
       ["Noch nicht drin", "Trickkarte mit Namen, Qualifikation, Superpipe 1998, Duell per Link."]],
     plakat(c, t) { roehre(c, t); const s = { phase: "luft", seite: 1, luft: { t: 0.5 + 0.2 * Math.sin(t), T: 1, h: 4.6, rot: t * 120 } }; if (R) fahrer(c, s, R.myLook(), { grab: true }); },

diff --git a/wintermehrkampf/index.html b/wintermehrkampf/index.html
@@ -2082,7 +2082,7 @@ tr.cut td { border-bottom: 2px dashed var(--red); }
   // skala: [Wert für 0 Punkte, Wert für 1000 Punkte]; mehr als 1000 ist möglich (bis 1200).
   const FUENFKAMPF = [
     { spiel: "eisschnelllauf", modus: "s500", key: "z500", name: "Eisschnelllauf 500 m", ort: "Heerenveen", einheit: "zeit", skala: [48, 36] },
-    { spiel: "big-air", modus: "finale", key: "finale", name: "Big Air", ort: "Sapporo", einheit: "punkte", skala: [40, 190] },
+    { spiel: "big-air", modus: "finale", key: "finale", name: "Big Air", ort: "Sapporo", einheit: "punkte", skala: [300, 2600] },
     { spiel: "hoernerschlitten", modus: "rennen", key: "zeit", name: "Hörnerschlitten", ort: "Garmisch", einheit: "zeit", skala: [110, 68] },
     { spiel: "halfpipe", modus: "finale", key: "punkte", name: "Halfpipe", ort: "Copper Mountain", einheit: "punkte", skala: [20, 92] },
     { spiel: "skibergsteigen", modus: "sprint", key: "zeit", name: "Skibergsteigen Sprint", ort: "Arêches", einheit: "zeit", skala: [95, 60] },
